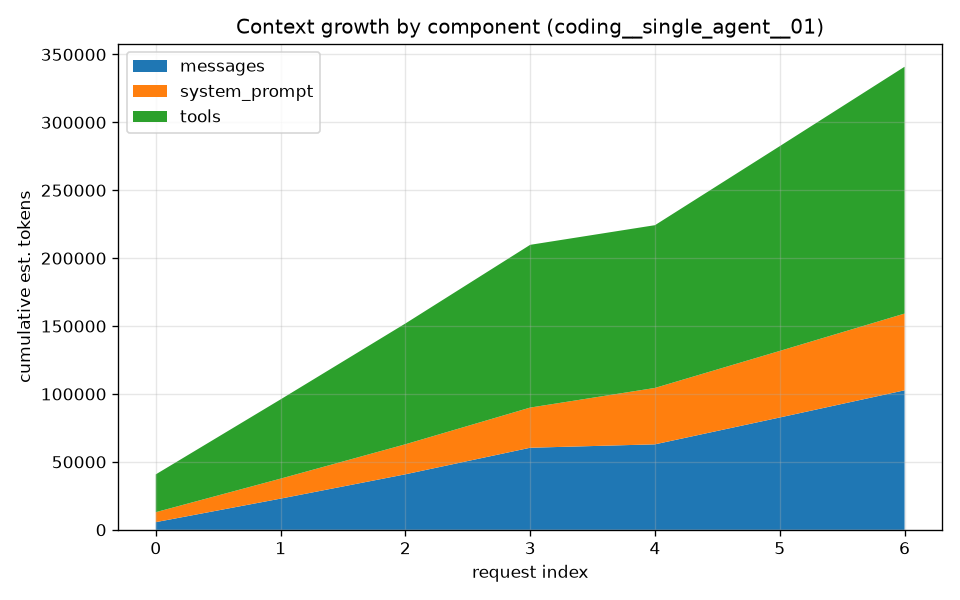
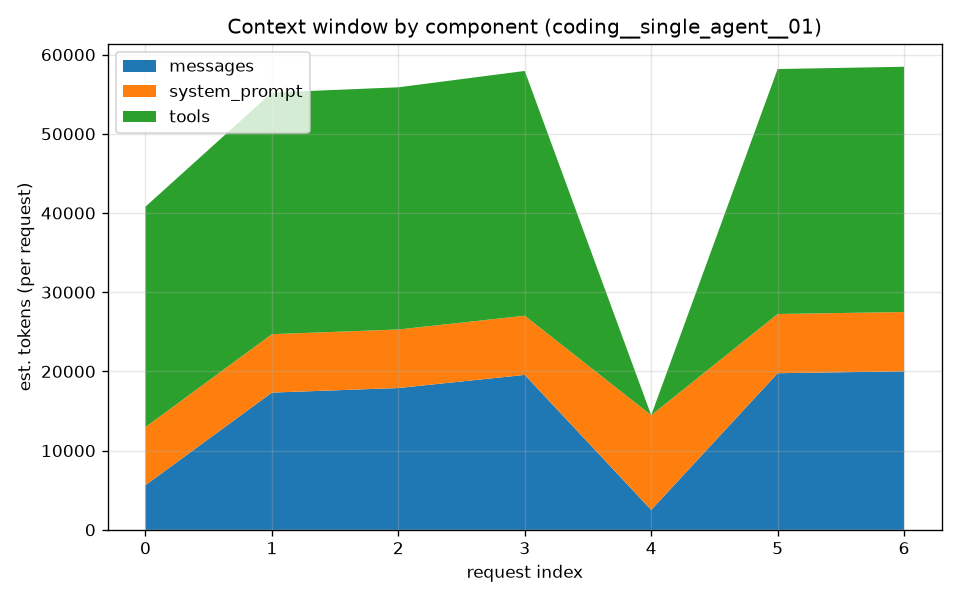
fix: concatenate all tap files; empty-dir guards; context_growth per-request snapshot

diff --git a/analysis/plots/context_growth.py b/analysis/plots/context_growth.py
@@ -4,20 +4,21 @@ from pathlib import Path
 
 import pandas as pd
 
-from analysis.metrics import context_growth
 from analysis.plots.style import new_fig, plt
 
 
 def plot_context_growth(components: pd.DataFrame, out_path: Path) -> Path:
-    cg = context_growth(components)
-    run_id = cg["run_id"].iloc[0]
-    g = cg[cg.run_id == run_id]
+    run_id = components["run_id"].iloc[0]
+    g = components[components.run_id == run_id]
     pivot = g.pivot_table(index="request_index", columns="component",
-                          values="cum_est_tokens", aggfunc="last").ffill().fillna(0)
-    fig, ax = new_fig(f"Context growth by component ({run_id[:24]})",
-                      "request index", "cumulative est. tokens")
+                          values="est_tokens", aggfunc="sum").fillna(0)
+    fig, ax = new_fig(f"Context window by component ({str(run_id)[:24]})",
+                      "request index", "est. tokens (per request)")
     ax.stackplot(pivot.index, *[pivot[c] for c in pivot.columns], labels=list(pivot.columns))
     ax.legend(loc="upper left")
-    out_path = Path(out_path); out_path.parent.mkdir(parents=True, exist_ok=True)
-    fig.tight_layout(); fig.savefig(out_path, dpi=120); plt.close(fig)
+    out_path = Path(out_path)
+    out_path.parent.mkdir(parents=True, exist_ok=True)
+    fig.tight_layout()
+    fig.savefig(out_path, dpi=120)
+    plt.close(fig)
     return out_path

diff --git a/analysis/report.py b/analysis/report.py
@@ -15,17 +15,20 @@ def generate(raw_dir, processed_dir, figures_dir, report_path) -> Path:
     raw_dir, processed_dir = Path(raw_dir), Path(processed_dir)
     figures_dir, report_path = Path(figures_dir), Path(report_path)
     figures_dir.mkdir(parents=True, exist_ok=True)
-    build_all(raw_dir, processed_dir)
+    counts = build_all(raw_dir, processed_dir)
+    if counts.get("runs", 0) == 0:
+        report_path.parent.mkdir(parents=True, exist_ok=True)
+        report_path.write_text("# Experiment Report\n\nNo runs found in data/raw.\n")
+        return report_path
     turns = pd.read_parquet(processed_dir / "turns.parquet")
     comps = pd.read_parquet(processed_dir / "components.parquet")
     runs = pd.read_parquet(processed_dir / "runs.parquet")
 
-    figs = {
-        "cache_accumulation.png": plot_cache_accumulation(turns, figures_dir / "cache_accumulation.png"),
-        "context_growth.png": plot_context_growth(comps, figures_dir / "context_growth.png"),
-        "latency.png": plot_latency(turns, figures_dir / "latency.png"),
-        "success_speedup.png": plot_success_speedup(runs, figures_dir / "success_speedup.png"),
-    }
+    plot_cache_accumulation(turns, figures_dir / "cache_accumulation.png")
+    plot_context_growth(comps, figures_dir / "context_growth.png")
+    plot_latency(turns, figures_dir / "latency.png")
+    plot_success_speedup(runs, figures_dir / "success_speedup.png")
+
     cols = [c for c in ("run_id", "task", "condition", "success", "speedup",
                         "num_requests", "total_cache_read", "cache_hit_ratio",
                         "completion_time_s") if c in runs.columns]

diff --git a/analysis/build_tables.py b/analysis/build_tables.py
@@ -14,7 +14,10 @@ def build_run(run_dir: Path):
     run_dir = Path(run_dir)
     meta = json.loads((run_dir / "run_meta.json").read_text())
     tap_files = sorted((run_dir / "tap").glob("*.json"))
-    tap = json.loads(tap_files[0].read_text()) if tap_files else []
+    tap = []
+    for f in tap_files:
+        tap.extend(json.loads(f.read_text()))
+    tap.sort(key=lambda t: t.get("timestamp") or "")
     turns = join_ttft(tap_turns(tap), load_ttft(run_dir / "ttft" / "ttft.jsonl"))
     comps = tap_components(tap)
     run_id = run_dir.name
@@ -47,6 +50,8 @@ def build_run(run_dir: Path):
 def build_all(raw_dir: Path, out_dir: Path) -> dict:
     raw_dir, out_dir = Path(raw_dir), Path(out_dir)
     out_dir.mkdir(parents=True, exist_ok=True)
+    if not raw_dir.exists():
+        return {"turns": 0, "components": 0, "runs": 0}
     all_turns, all_comps, all_runs = [], [], []
     for d in sorted(raw_dir.iterdir()):
         if not (d / "run_meta.json").exists():
@@ -57,6 +62,8 @@ def build_all(raw_dir: Path, out_dir: Path) -> dict:
             print(f"skip {d.name}: {exc}")
             continue
         all_turns += t; all_comps += c; all_runs.append(r)
+    if not all_runs:
+        return {"turns": 0, "components": 0, "runs": 0}
     pd.DataFrame(all_turns).to_parquet(out_dir / "turns.parquet")
     pd.DataFrame(all_comps).to_parquet(out_dir / "components.parquet")
     pd.DataFrame(all_runs).to_parquet(out_dir / "runs.parquet")